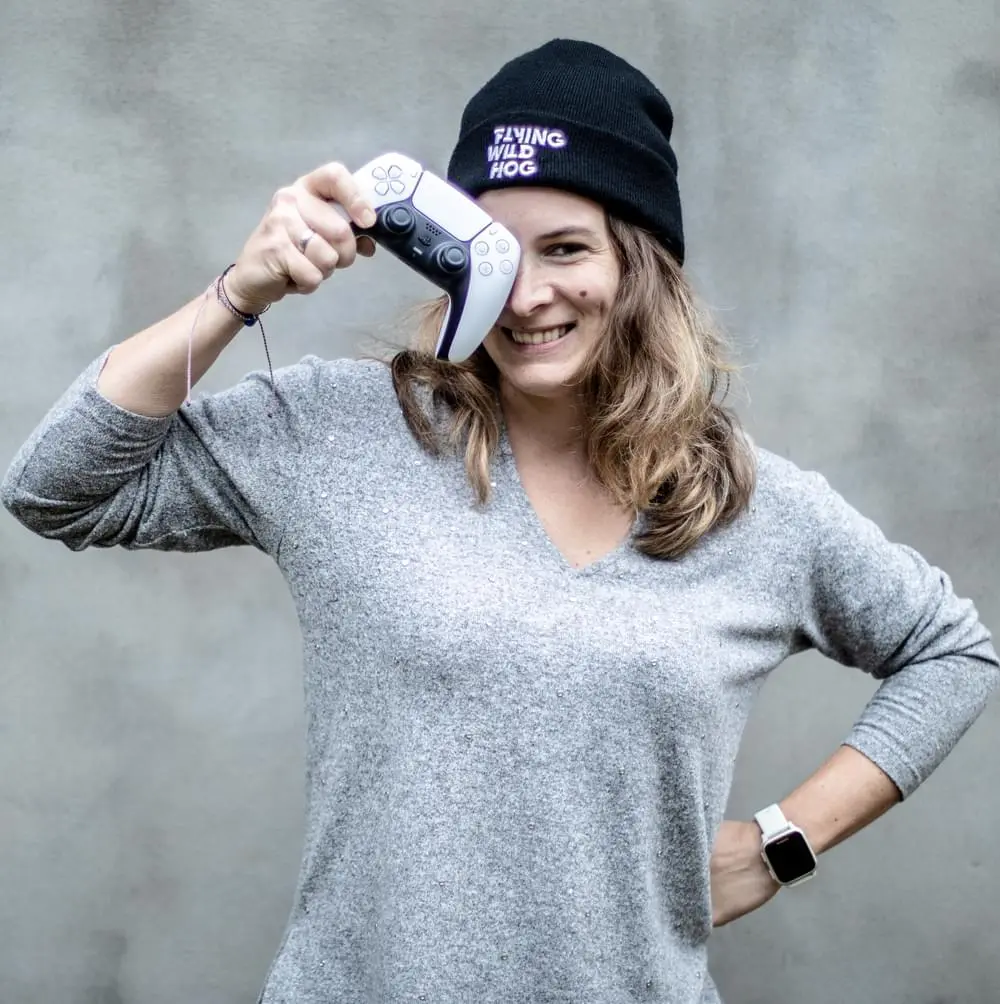
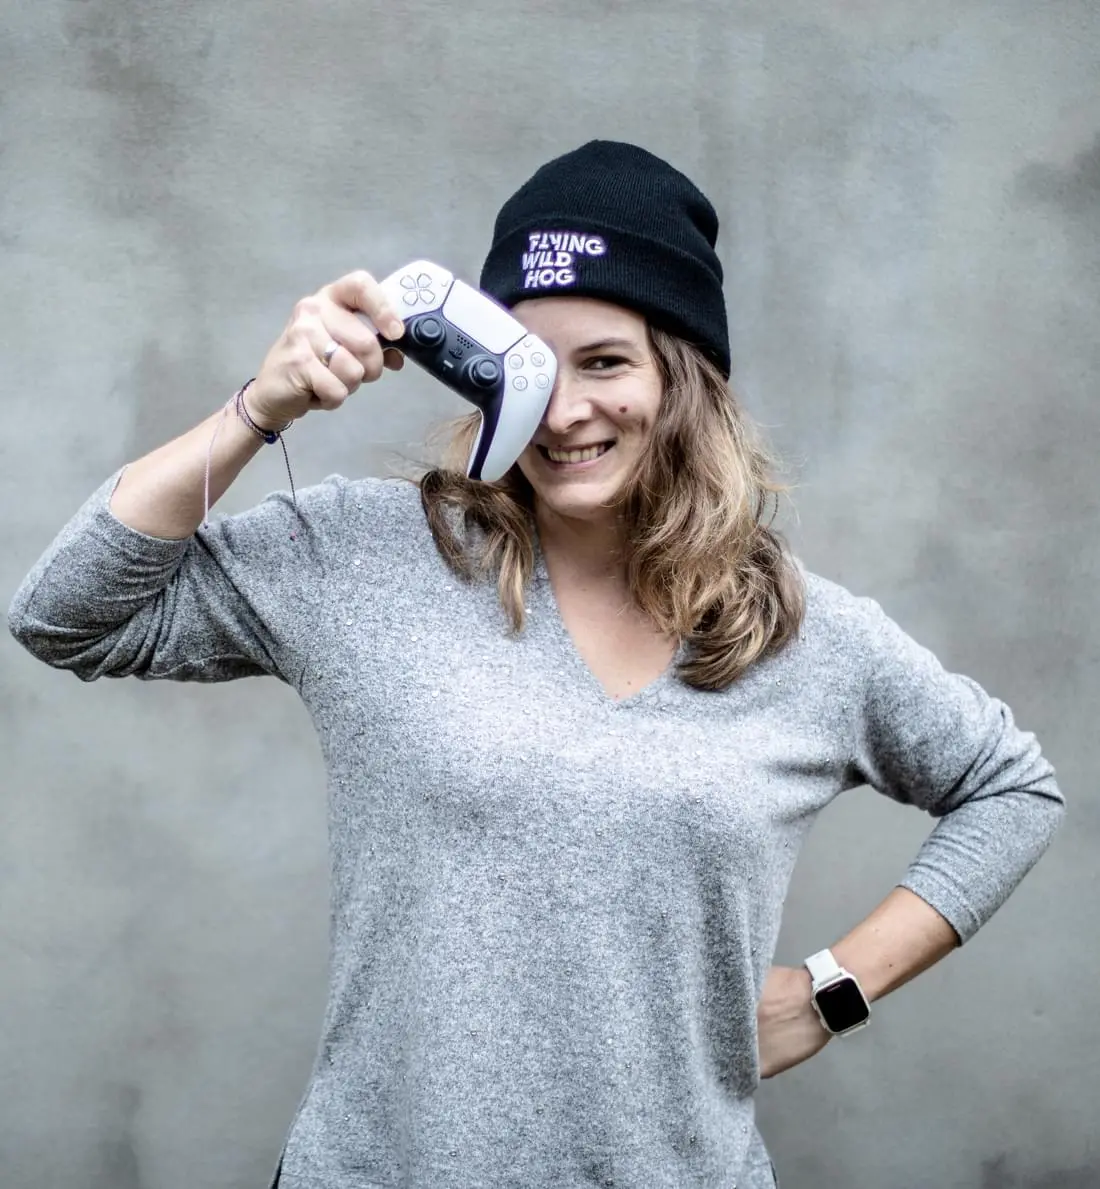
main image changed to background image

diff --git a/src/index.css b/src/index.css
@@ -3,10 +3,22 @@
 @tailwind utilities;
 
 #hero {
-    background-image: url('assets/main-photo/desktop/merry-300.webp');
+    background-image: url('assets/main-photo/mobile/merry-main-280.webp');
     background-size: cover;
     background-repeat: no-repeat;
     background-position: 50% 50%;
+}
+
+@media only screen and (min-width: 40em) {
+  #hero {
+    background-image: url('assets/main-photo/mobile/merry-main-580.webp');
+  }
+}
+
+@media only screen and (min-width: 80em) {
+  #hero {
+    background-image: url('assets/main-photo/desktop/merry-main-desktop.webp');
+  }
 }
 
 .active {
@@ -116,67 +128,4 @@
     .swiper-button-prev::after {
         font-size: 40px;
     } 
-}
-
-.tabletop-button-next,
-.tabletop-button-prev {
-    position: absolute;
-    height: 40px;
-    width: 60px;
-    display: flex;
-    align-items: center;
-    justify-content: center;
-    background-color: #FFF;
-    bottom: 45%;
-    margin: 0;
-    z-index: 10;
-}
-
-.tabletop-button-next {
-    right: 3px;
-    border: 6px solid black;
-    padding-top: 2px;
-}
-
-.tabletop-button-prev {
-    left: 3px;
-    border: 6px solid black;
-    padding-bottom: 2px;
-}
-
-.tabletop-button-next::after,
-.tabletop-button-prev::after  {
-    content: '\2794';
-    height: 100%;
-    display: flex;
-    align-items: center;
-    justify-content: center;
-    color: #000;
-    font-size: 40px;
-}
-
-.tabletop-button-prev::after {
-    transform: rotate(180deg);
-}
-
-@media only screen and (min-width: 36.3em) {
-    .tabletop-button-next,
-    .tabletop-button-prev {
-        height: 50px;
-        width: 100px;
-    }
-
-    .tabletop-button-next {
-        right: 20px;
-    }
-
-    .tabletop-button-prev {
-        left: 20px;
-    }
-
-    .tabletop-button-prev::after,
-    .tabletop-button-next::after {
-        height: 100%;
-        font-size: 60px;
-    }
 }

diff --git a/src/layout/Box/Box.jsx b/src/layout/Box/Box.jsx
@@ -2,7 +2,7 @@ const variantMap = {
   def: 'w-full p-2 text-center font-medium border-b-10 border-black space-y-4 bg-orange-400 sm:p-4 sm:space-y-6 md:space-y-4 lg:p-6 lg:space-y-6 xl:p-2 xl:space-y-2',
   logo: 'flex justify-center !bg-gray-400 items-center xl:col-span-2 xl:row-span-2 xl:order-0',
   image:
-    '!p-0 flex flex-col sm:col-span-2 sm:-order-1 xl:col-span-4 xl:row-span-3 xl:border-l-10 xl:order-2',
+    '!p-0 flex flex-col row-span-2 sm:col-span-2 sm:row-span-2 sm:-order-1 xl:col-span-4 xl:row-span-3 xl:border-l-10 xl:order-2',
   about:
     'flex flex-col justify-center items-center lg:!space-y-12 xl:!p-0 xl:!space-y-1 xl:col-span-2 xl:row-span-1 xl:order-3',
   videoGames:

diff --git a/src/pages/HomePage.jsx b/src/pages/HomePage.jsx
@@ -1,7 +1,6 @@
 import Main from 'layout/Main/Main';
 import Box from 'layout/Box/Box';
 import Logo from 'layout/Logo/Logo';
-import MainImageBox from '../components/Boxes/MainImageBox/MainImageBox';
 import AboutBox from 'components/Boxes/AboutBox/AboutBox';
 import VideoGamesBox from 'components/Boxes/VideoGamesBox/VideoGamesBox';
 import WorkshopsBox from 'components/Boxes/WorkshopsBox/WorkshopsBox';
@@ -16,9 +15,7 @@ const HomePage = () => {
       <Box variant='logo'>
         <Logo />
       </Box>
-      <Box variant='image'>
-        <MainImageBox />
-      </Box>
+      <Box variant='image' id='hero'></Box>
       <Box variant='about'>
         <AboutBox />
       </Box>

diff --git a/src/components/HomePage/TabletopSlider/TabletopSliderSlides/TabletopSliderImageSlide.jsx b/src/components/HomePage/TabletopSlider/TabletopSliderSlides/TabletopSliderImageSlide.jsx
@@ -1,15 +1,13 @@
 const TabletopSliderImageSlide = ({ srcSet, src, alt, sizes }) => {
   return (
-    <>
-      <img
-        srcSet={srcSet}
-        src={src}
-        alt={alt}
-        sizes={sizes}
-        loading='lazy'
-        className='max-w-full mx-auto mb-10 shadow-md shadow-black rounded-2xl xl:max-w-3/4 xl:h-5/6'
-      />
-    </>
+    <img
+      srcSet={srcSet}
+      src={src}
+      alt={alt}
+      sizes={sizes}
+      loading='lazy'
+      className='max-w-full mx-auto mb-10 shadow-md shadow-black rounded-2xl xl:max-w-3/4 xl:h-5/6'
+    />
   );
 };
 

diff --git a/src/layout/Main/Main.jsx b/src/layout/Main/Main.jsx
@@ -1,6 +1,6 @@
 const Main = ({ children }) => {
   return (
-    <main className='pt-header sm:grid sm:grid-cols-2 sm:grid-rows-1 border-10 border-black min-h-screen xl:grid-cols-8 xl:grid-rows-5 xl:max-h-screen xl:max-w-screen'>
+    <main className='pt-header grid grid-cols-1 grid-rows-3 sm:grid-cols-2 sm:grid-rows-3 border-10 border-black min-h-screen xl:grid-cols-8 xl:grid-rows-5 xl:max-h-screen xl:max-w-screen'>
       {children}
     </main>
   );

diff --git a/src/components/HomePage/TabletopSlider/TabletopSliderSlides/TabletopSliderTextSlide.jsx b/src/components/HomePage/TabletopSlider/TabletopSliderSlides/TabletopSliderTextSlide.jsx
@@ -3,7 +3,7 @@ import { Link } from 'react-router-dom';
 const TabletopSliderTextSlide = ({ text, to }) => {
   return (
     <Link to={to}>
-      <p className='font-bold text-2xl text-center underline underline-offset-4 sm:text-4xl xl:text-3xl'>
+      <p className='font-bold text-2xl text-center underline underline-offset-4 sm:text-4xl xl:text-2xl 2xl:text-3xl'>
         {text}
       </p>
     </Link>
